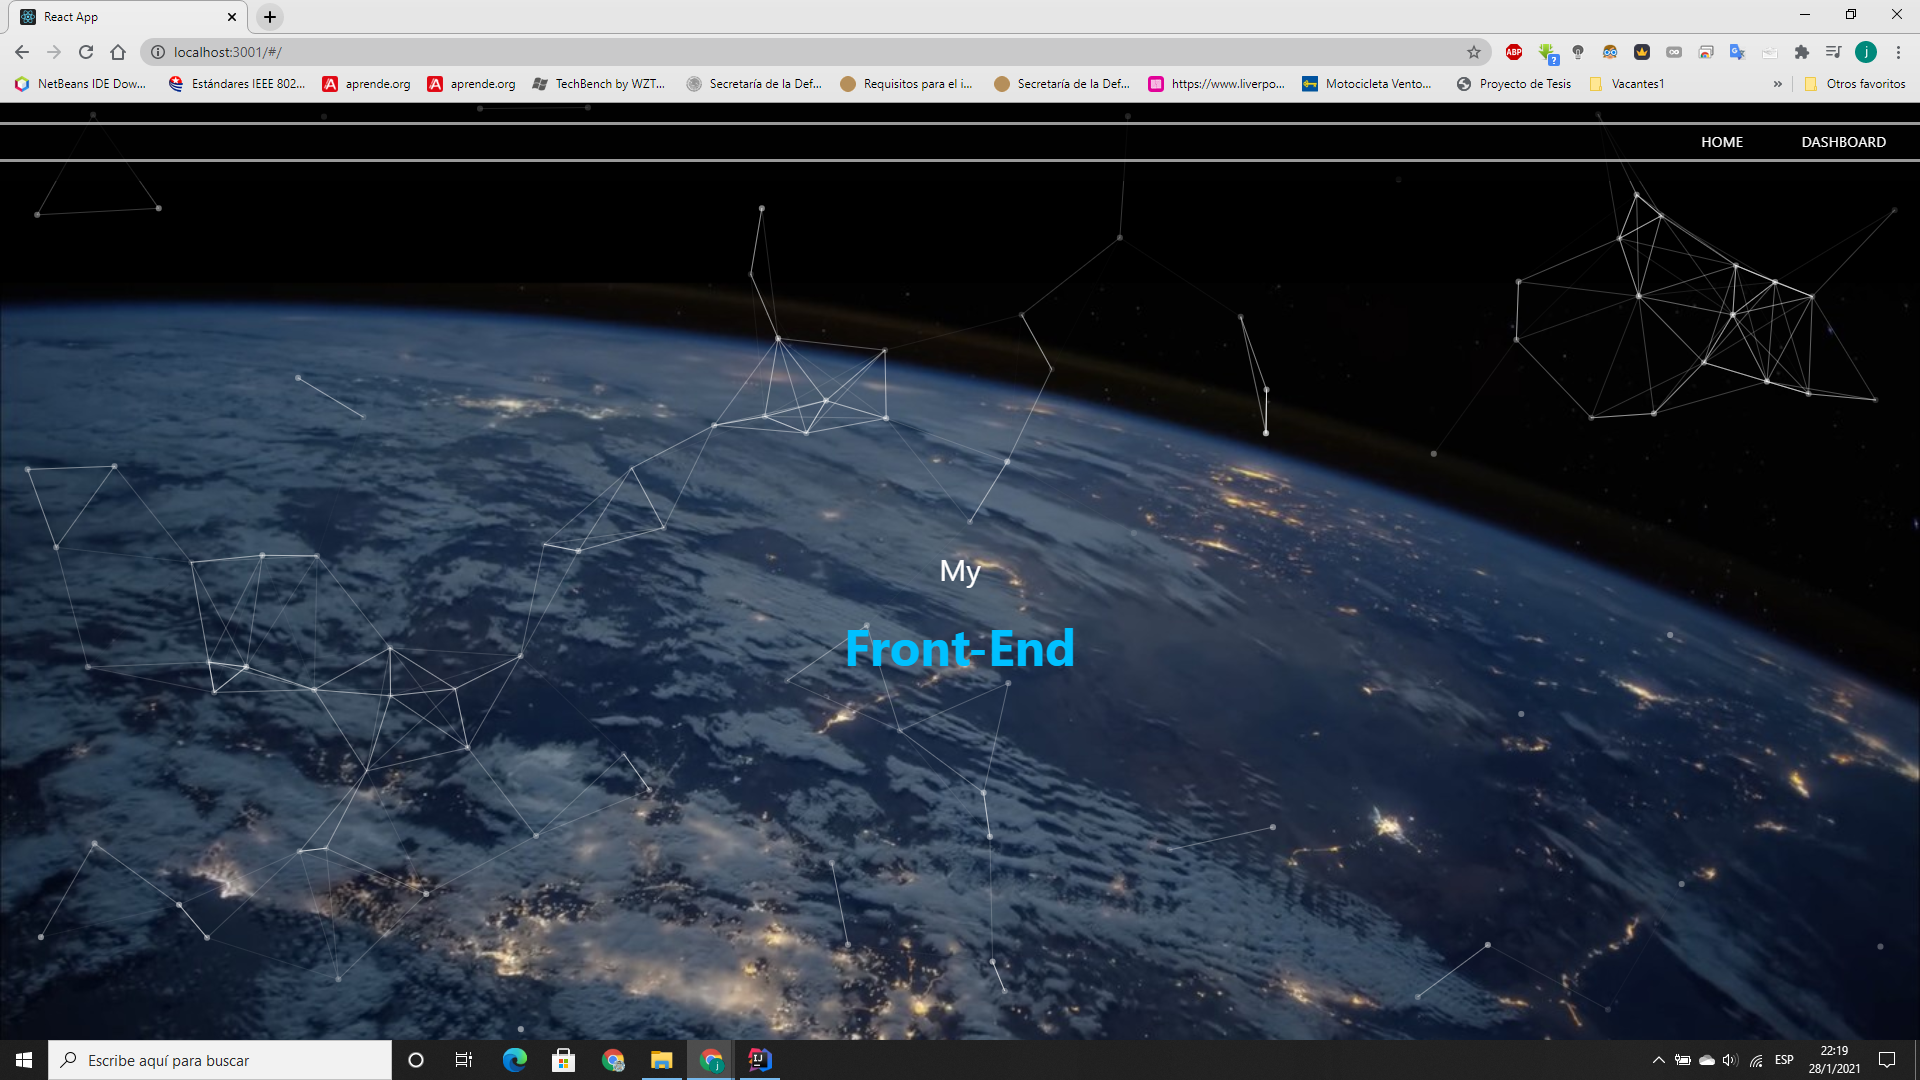
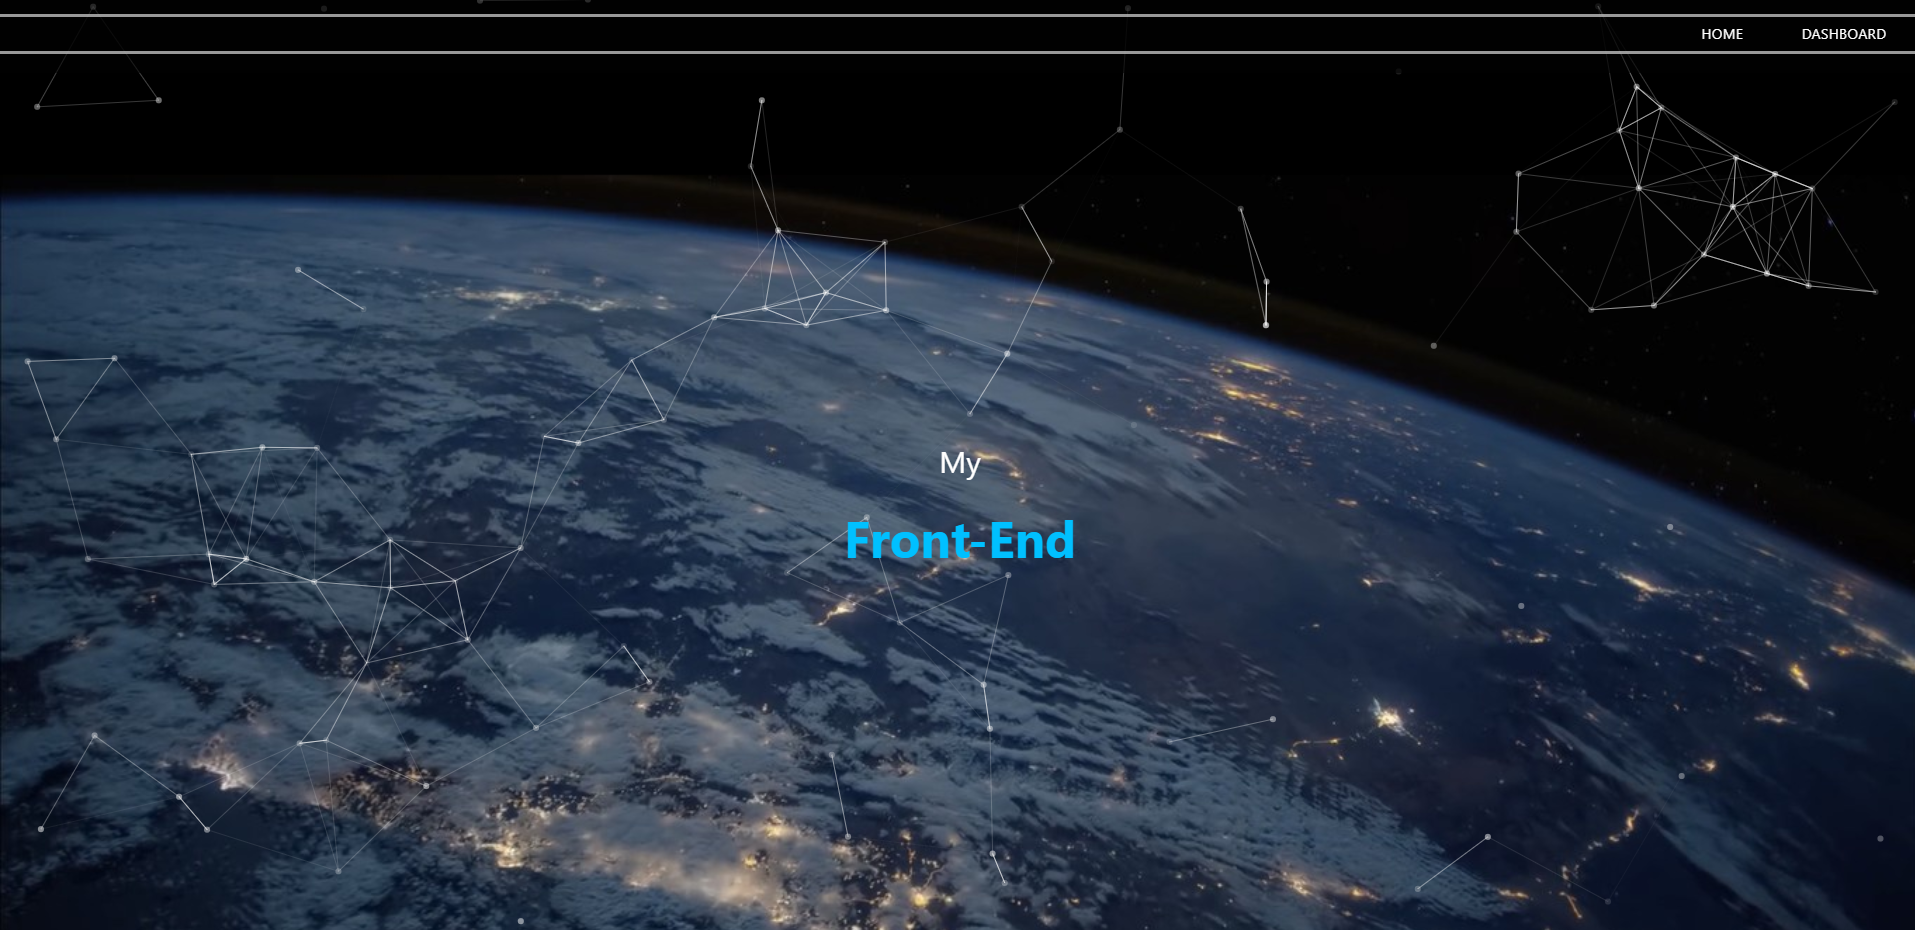
imgPreview2

diff --git a/readme.md b/readme.md
@@ -68,3 +68,5 @@ This section has moved here: [https://facebook.github.io/create-react-app/docs/d
 ### `yarn build` fails to minify
 
 This section has moved here: [https://facebook.github.io/create-react-app/docs/troubleshooting#npm-run-build-fails-to-minify](https://facebook.github.io/create-react-app/docs/troubleshooting#npm-run-build-fails-to-minify)
+### Preview
+![Cat](99minutos-frontend-interview-test/src/Images/ImgPreview/Captura de pantalla (11).png)
